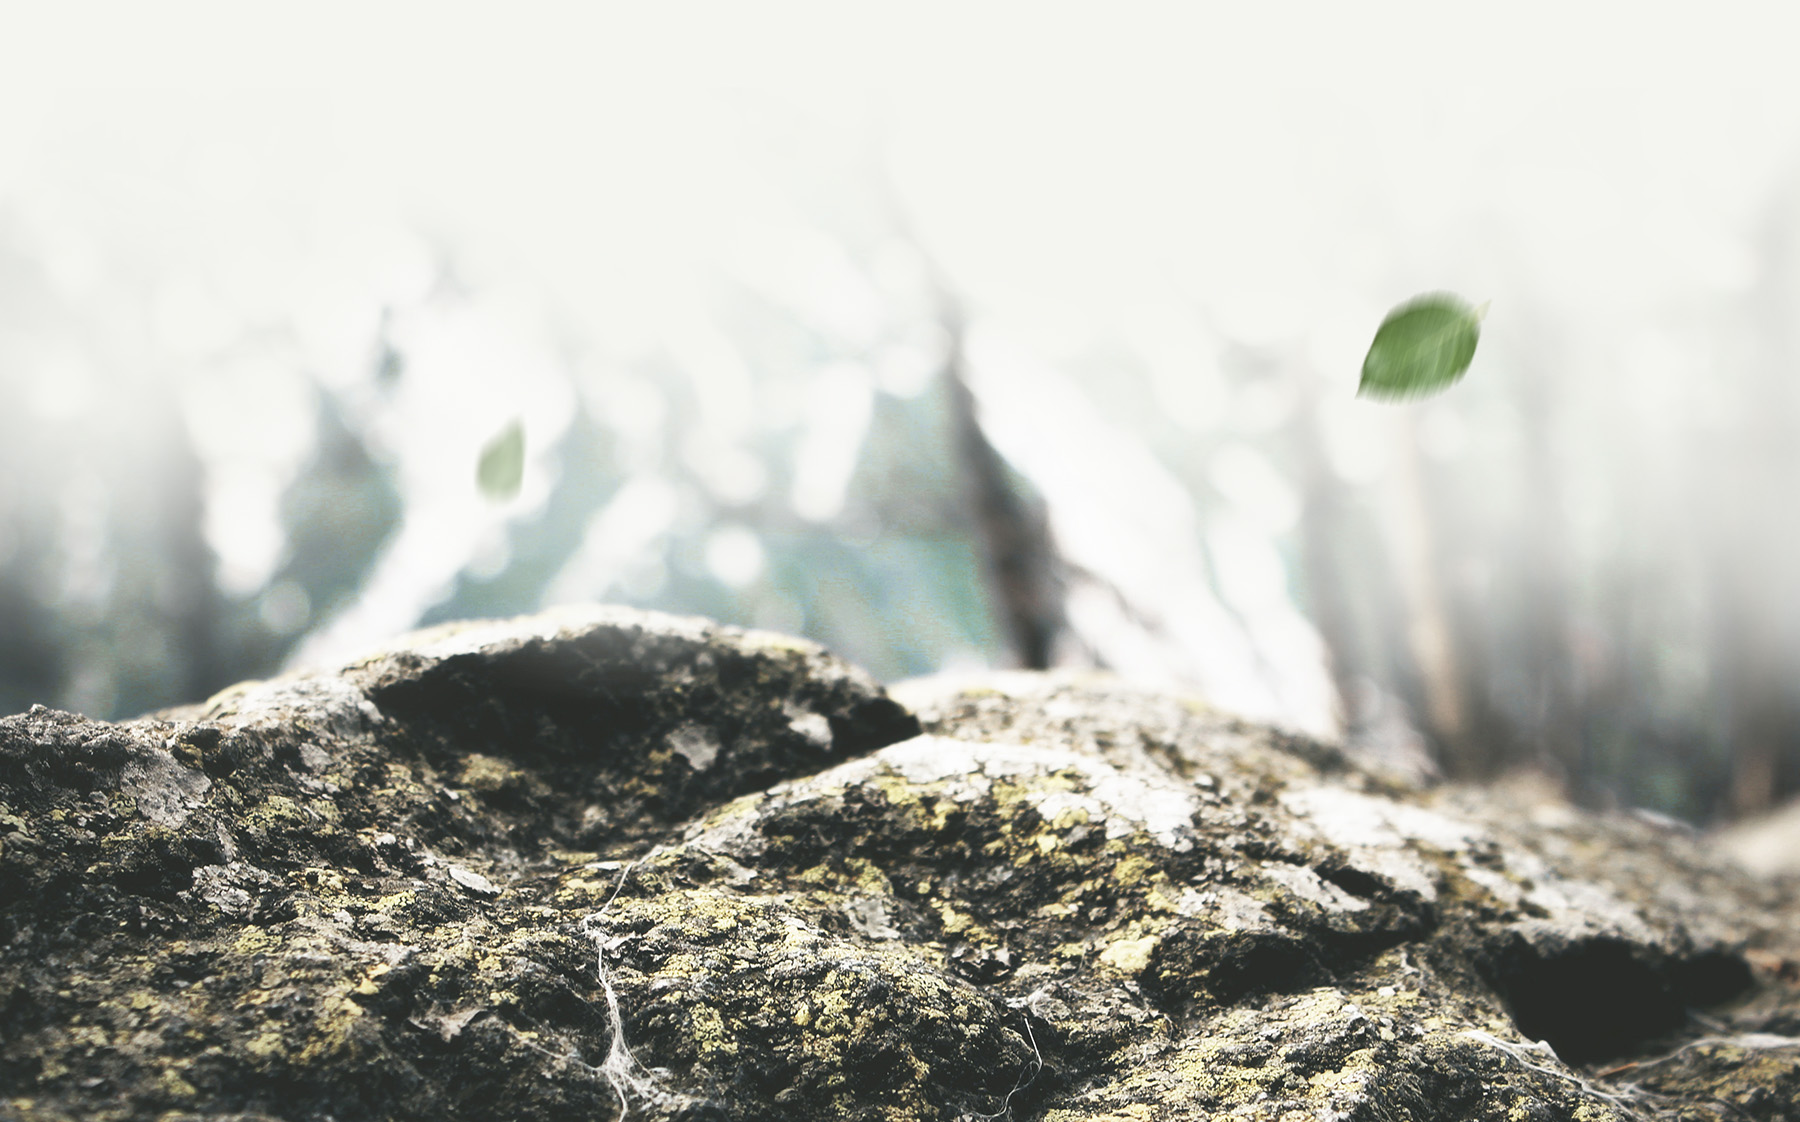
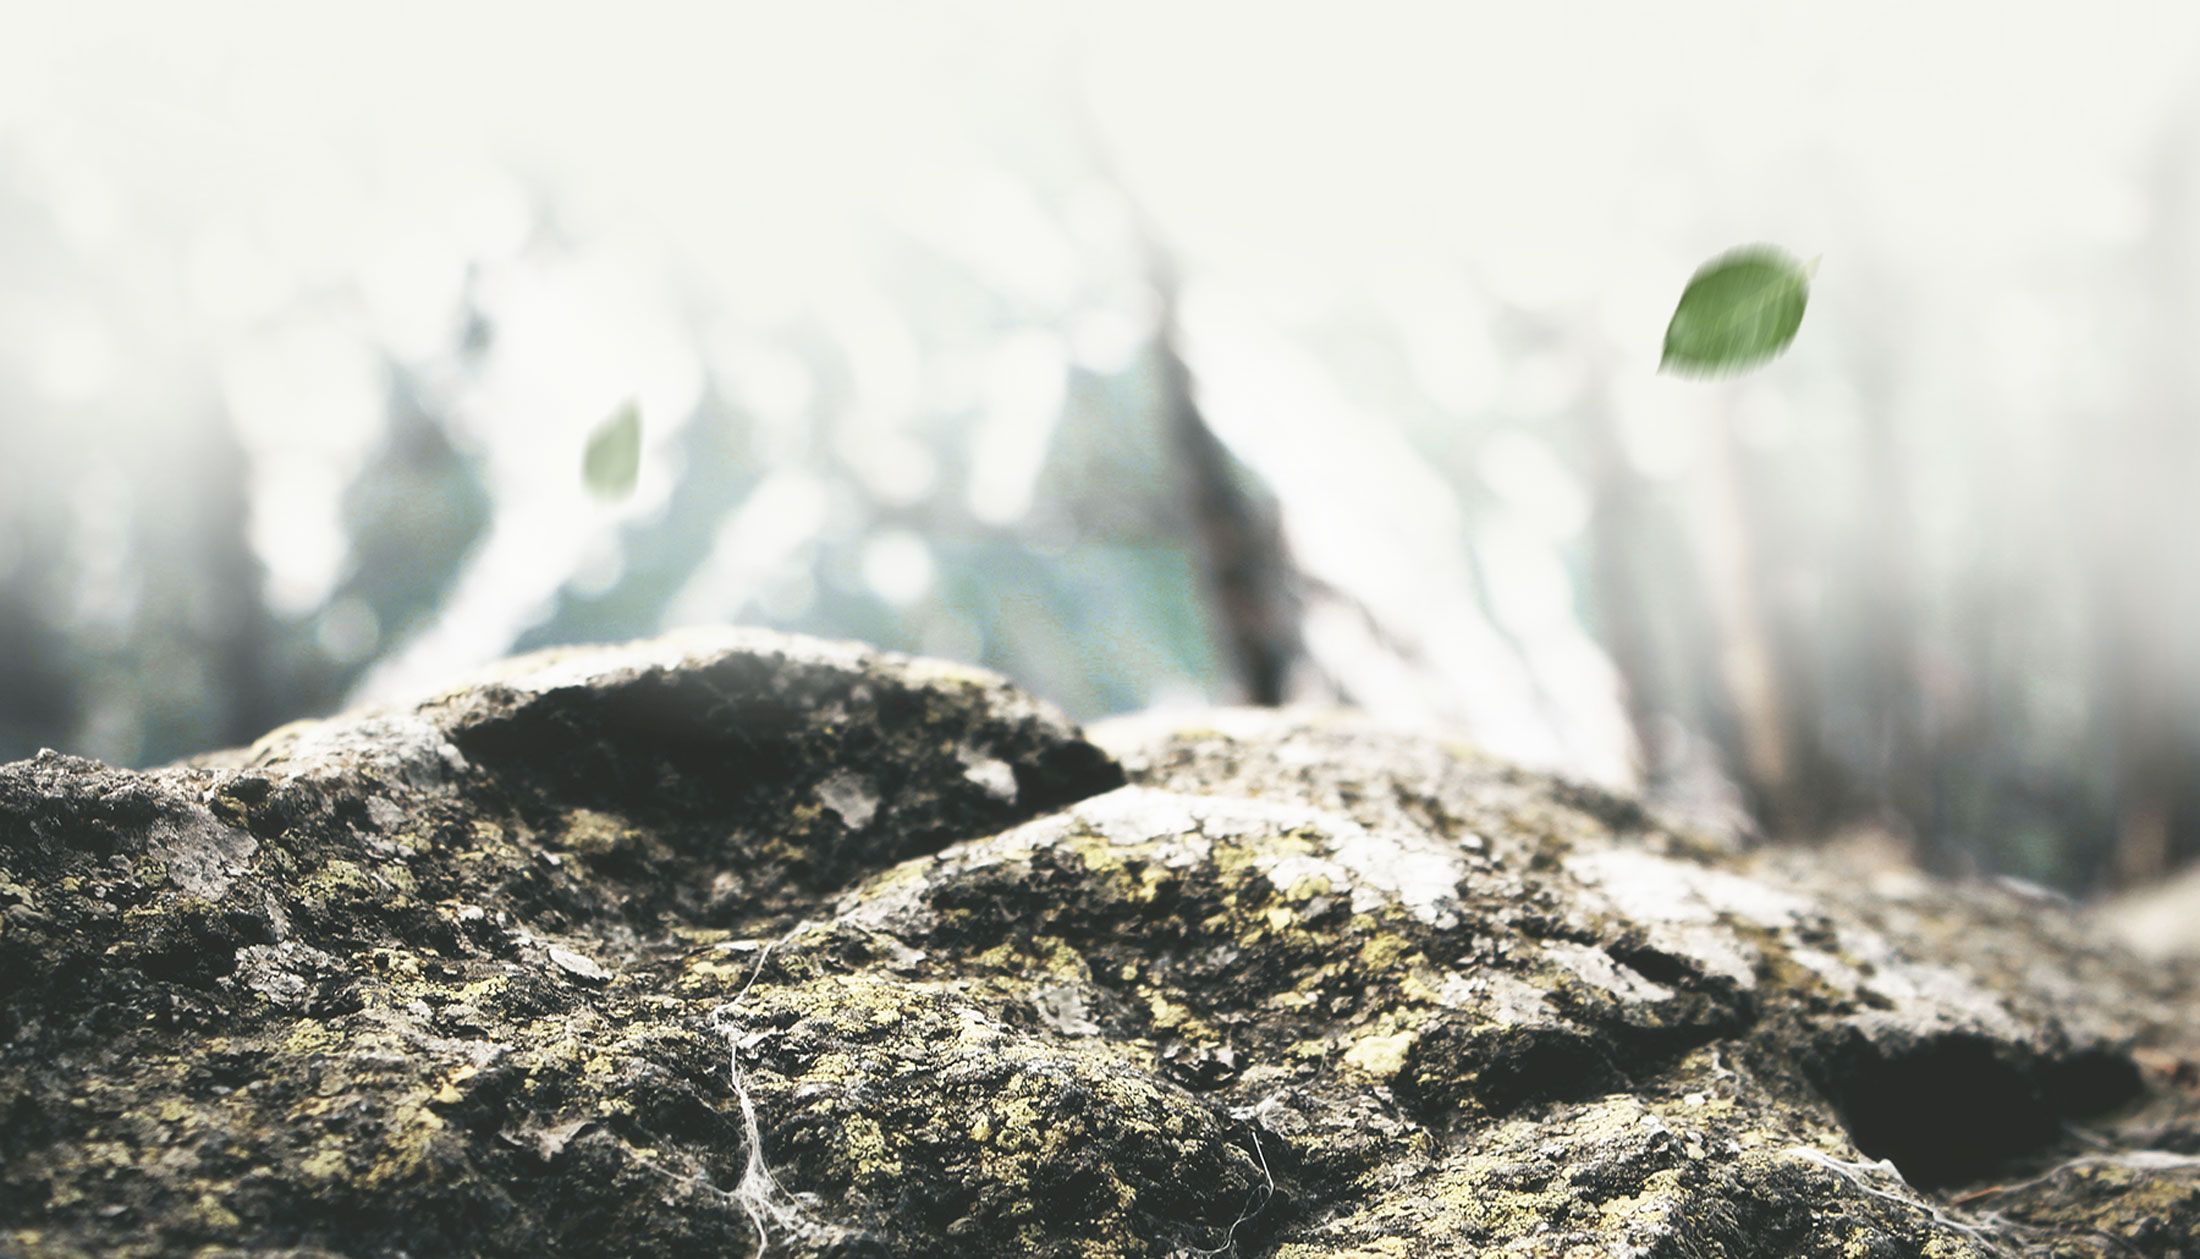
Blur, parallax creation

diff --git a/source/js/aside.js b/source/js/aside.js
@@ -1,35 +1,32 @@
-(function() {
-	'use strict';
+'use strict';
 
-	$('#aside-button').on('click',function(e){
-		var $this = $(this),
-			wrapper = $this.closest('.blog-wrapper'),
-			aside_block = wrapper.find('#aside');
-			console.log(aside_block);
-		aside_block.animate({'left':'0'},1000);
+$('#aside-button').on('click',function(e){
+	var $this = $(this),
+		wrapper = $this.closest('.blog-wrapper'),
+		aside_block = wrapper.find('#aside');
+		console.log(aside_block);
+	aside_block.animate({'left':'0'},1000);
 
-		aside_block.on('click', function(){ 
-			$(this).animate({'left':'-60%'}, 1000);
-		});
+	aside_block.on('click', function(){ 
+		$(this).animate({'left':'-60%'}, 1000);
 	});
+});
 
-	$(window).scroll(function(){
-		var wScroll = $(window).scrollTop(),
-			menu = $('.static .aside-wrapper__list'),
-			sidebar = $('.static .aside-wrapper__static'),
-			stickyStart = sidebar.offset().top,
-			menuClone = sidebar.clone(),
-			fixedSidebar = $('.fixed-wrapper .aside-wrapper');
+$(window).scroll(function(){
+	var wScroll = $(window).scrollTop(),
+		menu = $('.static .aside-wrapper__list'),
+		sidebar = $('.static .aside-wrapper__static'),
+		stickyStart = sidebar.offset().top,
+		menuClone = sidebar.clone(),
+		fixedSidebar = $('.fixed-wrapper .aside-wrapper');
 
-		if (wScroll >= stickyStart) {
-			if (!fixedSidebar.find('.aside-wrapper__static').length){
-				fixedSidebar.append(menuClone);
-				menu.hide();
-			} 
-		} else {
-				fixedSidebar.find('.aside-wrapper__static').remove();
-				menu.show();
-			}
-	});
-
-})();
+	if (wScroll >= stickyStart) {
+		if (!fixedSidebar.find('.aside-wrapper__static').length){
+			fixedSidebar.append(menuClone);
+			menu.hide();
+		} 
+	} else {
+			fixedSidebar.find('.aside-wrapper__static').remove();
+			menu.show();
+		}
+});

diff --git a/source/style/common/header.scss b/source/style/common/header.scss
@@ -2,17 +2,17 @@
 .head__table {
 	height:100vh;
 	min-height:650px;
-	width:100%;
 	position:relative;
+	width:100%;
 	overflow:hidden;
-
 	&_background{
 		position:absolute;
 		top: 0;
 		right: 0;
 		left: 0;
 		bottom: 0;
-		& img{
+		min-width:2000px;
+		img{
 			display:block;
 			max-width:100%;
 		}
@@ -25,13 +25,11 @@
 		width:100%;
 	}
 	&-content {
-		width:380px;
-		height:250px;
 		position:absolute;
 		top:50%;
-		left:50%;
-		margin-top:-125px;
-		margin-left:-190px;
+		left:0;
+		right:0;
+		transform:translateY(-50%);
 		text-align:center;
 	}
 	&_bg{
@@ -58,6 +56,9 @@
 		margin-bottom:-5px;
 	}
 }
+.block-wrapper{
+	display:inline-block;
+}
 .container__info.works {
 	color:#ffffff;
 	font-size:16px;
@@ -72,6 +73,9 @@
 	z-index:5;
 	&:hover{
 		opacity:1;
+	}
+	@include phones{
+		left:45%;
 	}
 }
 .polygon {

diff --git a/source/style/common/index.scss b/source/style/common/index.scss
@@ -80,23 +80,7 @@ header{
 		height:140px;
 		overflow:hidden;
 	}
-	&__header {
-		font-size:28px;
-		color:#ffffff;
-		font-family:'robotomedium';
-		@include phones{
-			font-size:21px;
-		}
-	}
-	&__info {
-		color:#8f9191;
-		margin-bottom:35px;
-		font-family:'robotomedium';
-		@include phones{
-			font-size:14px;
-			margin-bottom:20px;
-		}
-	}
+	
 	&__socials-wrapper {
 		display:inline-block;	
 		margin:0;
@@ -202,6 +186,23 @@ header{
 	}
 	&__menu-item.autorization {
 		width:49%;
+	}
+}
+.container__header {
+	font-size:28px;
+	color:#ffffff;
+	font-family:'robotomedium';
+	@include phones{
+		font-size:21px;
+	}
+}
+.container__info {
+	color:#8f9191;
+	margin-bottom:35px;
+	font-family:'robotomedium';
+	@include phones{
+		font-size:14px;
+		margin-bottom:20px;
 	}
 }
 .question{

diff --git a/source/js/app.js b/source/js/app.js
@@ -1,5 +1,6 @@
 (function() {
   'use strict';
+  var wscroll = $(window).scrollTop();
 
   //Preloader
   $(window).on('load', function () {
@@ -25,5 +26,23 @@
       transform.classList.toggle('hover');      
   });
   
+
+  //SVG Realization
+  var svg = $('.circles'),
+      svgPos = $('.about-me__skills').offset().top,
+      windowMargin = $(window).height()/3,
+      startAnimate = wscroll - svgPos + windowMargin,
+      pixelsElapsed = svgPos - wscroll,
+      percentElapsde = Math.ceil(pixelsElapsed / windowMargin),
+      persentsDraw = 1200/100*percentElapsde;
+
+   if (startAnimate  >= 0){
+        if(persentsDraw>0){
+      svg.css({
+        'stroke-dashoffset': persentsDraw
+      });
+    }
+   }
 }
+
 )();

diff --git a/source/js/parallax.js b/source/js/parallax.js
@@ -1,18 +1,24 @@
-'use strict';
-
 $(window).scroll(function(){
 	var wScroll = $(window).scrollTop();
 
 	(function(){
 		var bg = $('.head__table_background'),
-			strafe = wScroll/45,
-			transformString = 'transform3D(0, ' + strafe + ', 0)',
-			strafeAmount = -strafe + '%';
+			bgText = $('.bg-img'),
+			user = $('.block-wrapper');
+			
+		slideIt(bg, wScroll / 45);
+		slideIt(bgText, wScroll / 30);
+		slideIt(user, wScroll / 3);
 
-		console.log(bg);
-		bg.css({
-			'transform': transformString
-		})
+		function slideIt(block, strafeAmount){
+			var strafe = -strafeAmount + '%',
+				transformString = 'translate3d(0,' + strafe + ',0)';
+
+			block.css({
+				'transform': transformString
+			})
+		}
+		
 
 	})();
 });

diff --git a/source/style/common/works.scss b/source/style/common/works.scss
@@ -246,7 +246,7 @@ html{
 			width:370px;
 			font-family:'robotoitalic';
 			&:first-child{
-				margin-right:20px;
+				margin-right:50px;
 				@include tablets{
 					margin:0 auto 30px;
 				}
@@ -280,7 +280,6 @@ html{
 	}
 }
 .contact-me{
-	padding-top:40px;
 	width:380px;
 	margin:auto;
 	margin-bottom:25px;
@@ -291,6 +290,18 @@ html{
 	overflow:hidden;
 	@include phones{
 		width:300px;
+	}
+	&__form{
+		z-index:5;
+	}
+	.blur{
+		width:100%;
+		height:100%;
+		//filter: blur(20px);
+		//-webkit-filter: blur(20px);
+		background-image: url("../img/about.jpg");
+		background-position: center center;
+		background-repeat: no-repeat; 
 	}
 	&__header{
 		text-transform:uppercase;

diff --git a/source/js/blur.js b/source/js/blur.js
@@ -1,0 +1,21 @@
+'use strict';
+
+$(document).ready(function(){
+	blur();
+});
+$(window).resize(function(){
+	blur();
+});
+
+function blur(){
+	var imgWidth = $('.about__review').width(),
+	blur = $('.blur'),
+	wrapper = $('.about__review'),
+	posTop = wrapper.offset().top - blur.offset().top,
+	posLeft = wrapper.offset().left - blur.offset().left;
+
+	blur.css({
+		'background-size': imgWidth +'px' +' '+'auto',
+		'background-position': posLeft + 'px' + ' ' + posTop + 'px'
+	});
+}

diff --git a/gulp/tasks/aside.process.js b/gulp/tasks/aside.process.js
@@ -1,0 +1,11 @@
+'use strict';
+
+module.exports = function() {
+  $.gulp.task('aside.process', function() {
+    return $.gulp.src('./source/js/aside.js')
+      .pipe($.gp.sourcemaps.init())
+      .pipe($.gp.concat('aside.js'))
+      .pipe($.gp.sourcemaps.write())
+      .pipe($.gulp.dest($.config.root + '/assets/js'))
+  })
+};

diff --git a/gulp/paths/tasks.js b/gulp/paths/tasks.js
@@ -9,6 +9,7 @@ module.exports = [
   './gulp/tasks/js.foundation.js',
   './gulp/tasks/css.foundation.js',
   './gulp/tasks/js.process.js',
+  './gulp/tasks/aside.process.js',
   './gulp/tasks/js.lint.js',
   './gulp/tasks/copy.image.js',
   './gulp/tasks/svg-sprite.js'

diff --git a/gulp/paths/app.js b/gulp/paths/app.js
@@ -4,7 +4,7 @@ module.exports = [
   './source/js/app.js',
   './source/js/map.js',
   './source/js/menu.js',
-  './source/js/aside.js',
   './source/js/slider.js',
-  './source/js/parallax.js'
+  './source/js/parallax.js',
+  './source/js/blur.js'
 ];

diff --git a/gulpfile.js b/gulpfile.js
@@ -27,6 +27,7 @@ $.gulp.task('default', $.gulp.series(
     'jade',
     'js.foundation',
     'js.process',
+    'aside.process',
     'copy.image',
     'css.foundation',
     'svg-sprite'
